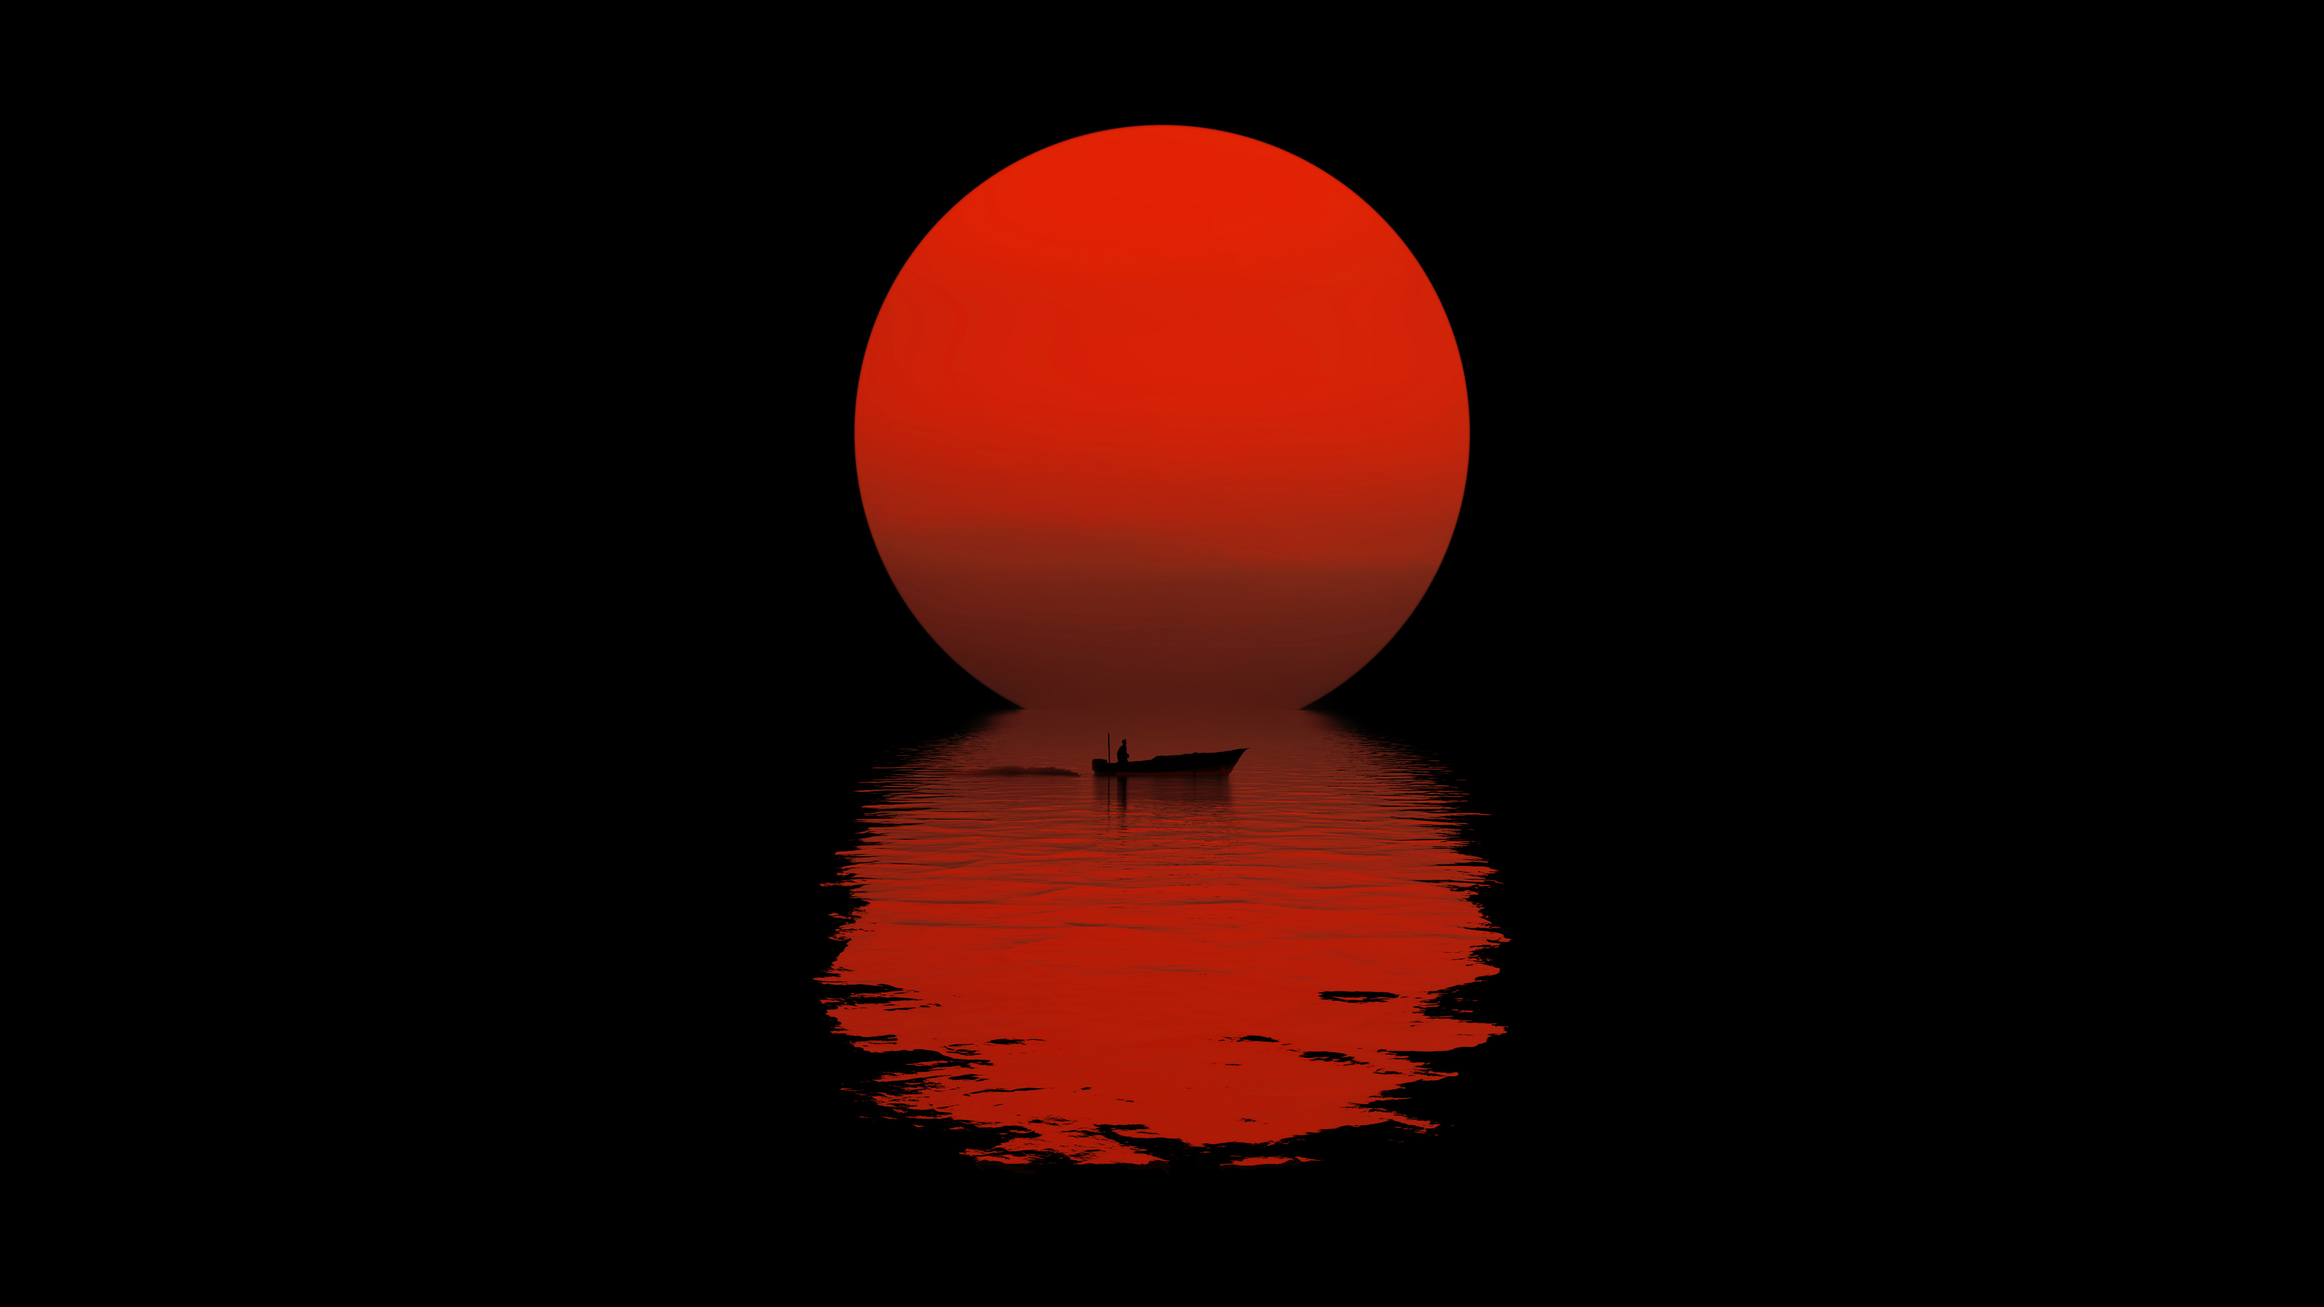
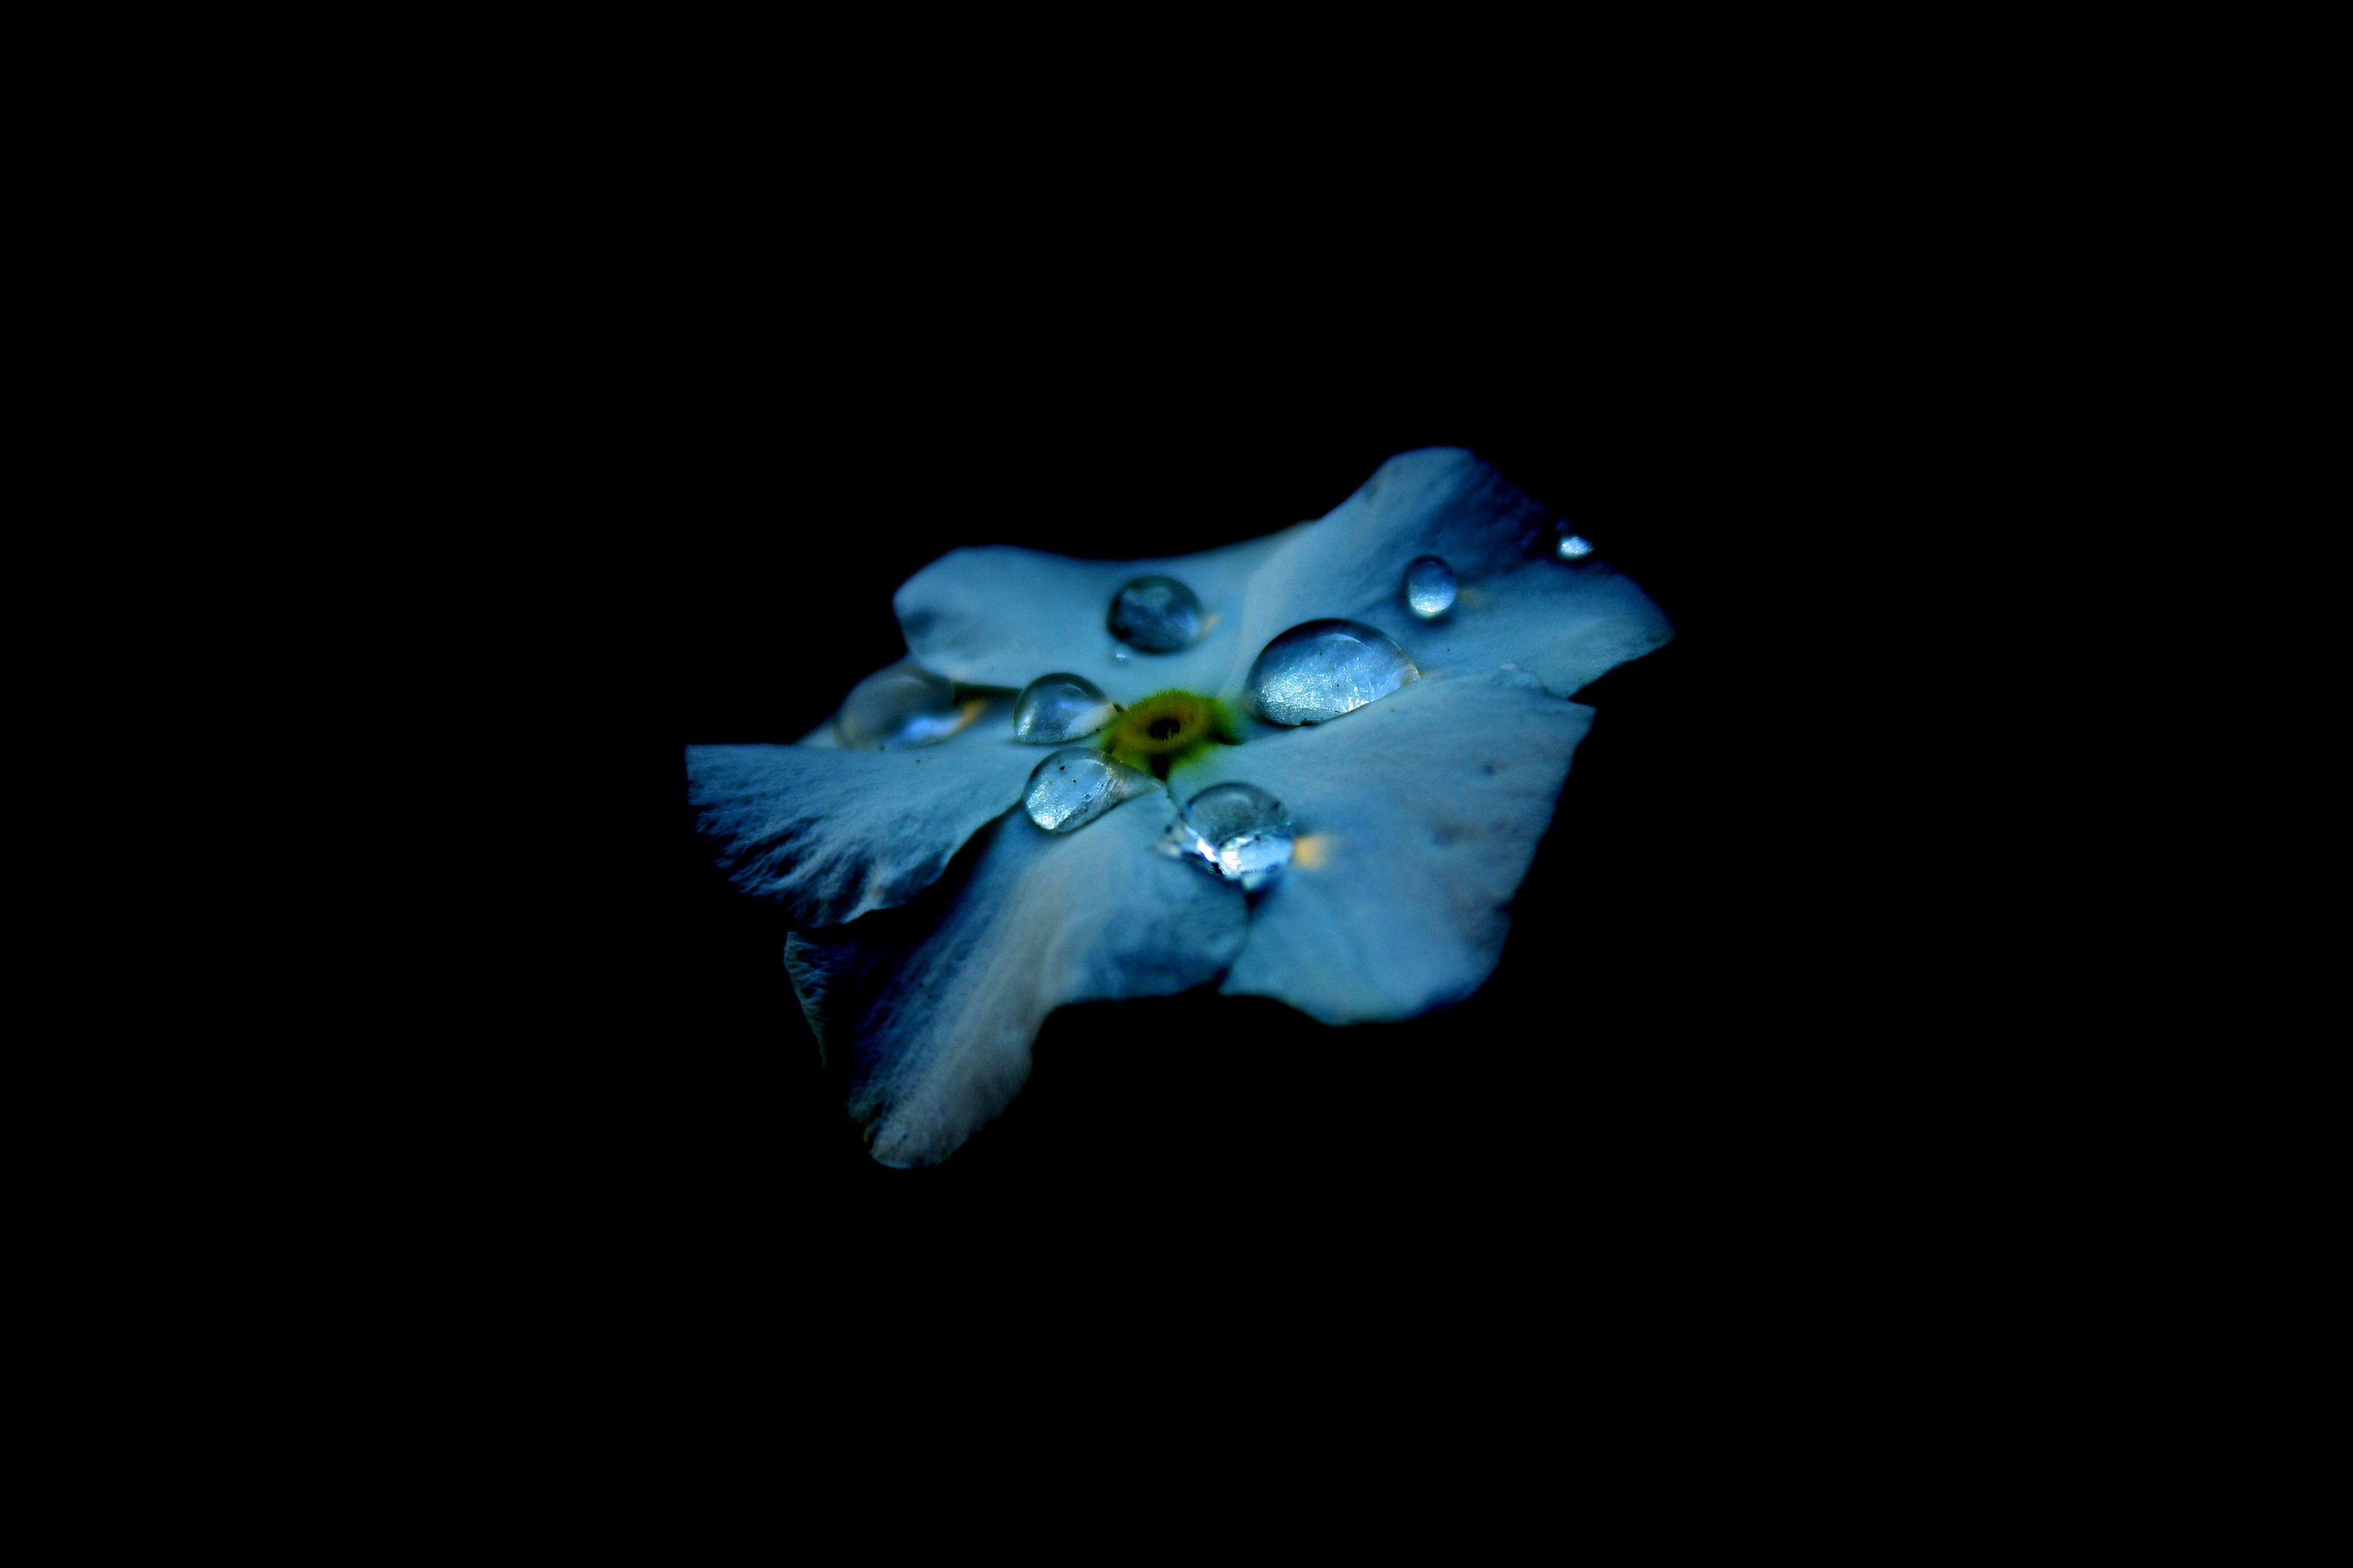
refactor: better theme

Changed region(s): [[0.2812, 0.0931, 0.7188, 0.8995]]

diff --git a/private_dot_config/quickshell/modules/NotificationStack.qml b/private_dot_config/quickshell/modules/NotificationStack.qml
@@ -15,8 +15,12 @@ import "../services"
 // notification gets its own card rather than merging back into the first
 // — matches the order things actually arrived in.
 //
-// No close button — the whole card is one big click target that dismisses
-// its group, simpler than hunting for a specific icon.
+// No close button — the whole card is the target, and which gesture you
+// use says what you meant: fling it off either edge to dismiss it and be
+// done, or click it to be taken to whatever posted it (the exact Zen tab
+// where the app offers a default action — see Notifications.activateGroup)
+// with the card dismissed on the way out. Simpler than hunting for a
+// specific icon, and no gesture leaves the card sitting there unread.
 //
 // While the pad is closed, a card auto-hides itself from view 6s after its
 // newest message (services/Notifications.qml's `groups[].expiresAt`) —
@@ -106,13 +110,26 @@ ColumnLayout {
             required property var modelData
             // Layouts exclude invisible items from sizing, so this both
             // hides the card and closes the gap it would otherwise leave.
-            visible: PadState.shown || root.now < card.modelData.expiresAt
+            // cardMa.pressed keeps a card you're mid-swipe from vanishing
+            // underneath the cursor when its 6s auto-hide happens to land
+            // during the drag — releasing then either dismisses it or
+            // settles it back, and the timeout applies again from there.
+            visible: PadState.shown || cardMa.pressed
+                || root.now < card.modelData.expiresAt
             Layout.preferredWidth: Metrics.notifCardWidth
             implicitHeight: content.implicitHeight + 20
             radius: 14
             color: Colors.alpha(Colors.surface, 0.92)
+            // Neutral, deliberately NOT accent anymore: an accent border
+            // now means "this surface holds Hyprland's focus", which is
+            // the pad's alone (see modules/Pad.qml and shell.qml's
+            // HyprlandFocusGrab). Notifications never take focus — they're
+            // in the grab for clicks only — so they never wear it, apart
+            // from the blink below, where a *flash* of accent reads as
+            // "new content" rather than "focused".
+            readonly property color baseBorder: Colors.alpha(Colors.text, 0.14)
             border.width: 2
-            border.color: Colors.accent
+            border.color: card.baseBorder
 
             // Purely visual offset layered on top of the ColumnLayout's own
             // positioning — animating x/y directly would fight the Layout
@@ -149,16 +166,92 @@ ColumnLayout {
             SequentialAnimation {
                 id: blink
                 loops: 3
-                ColorAnimation { target: card; property: "border.color"; to: Colors.text; duration: 250 }
                 ColorAnimation { target: card; property: "border.color"; to: Colors.accent; duration: 250 }
+                ColorAnimation { target: card; property: "border.color"; to: card.baseBorder; duration: 250 }
             }
 
-            // Whole-card dismiss — no visible siblings intercept mouse
-            // events (plain Text/ColumnLayout, no MouseAreas of their
-            // own), so z doesn't matter here.
+            // Swipe-away, reusing the same Translate the slide-in
+            // animation drives rather than touching x — the card is a
+            // ColumnLayout child, so an animated/assigned x would just be
+            // overwritten by the next layout pass (see slideOffset above).
+            // Either direction dismisses: there's nothing behind a
+            // notification to reveal, so left vs right carries no meaning
+            // worth forcing the user to remember.
+            function flingAway() {
+                card.flingTo = slideOffset.x > 0
+                    ? card.width + 80 : -(card.width + 80)
+                fling.start()
+            }
+            property real flingTo: 0
+
+            ParallelAnimation {
+                id: fling
+                NumberAnimation {
+                    target: slideOffset; property: "x"; to: card.flingTo
+                    duration: 160; easing.type: Easing.OutCubic
+                }
+                NumberAnimation { target: card; property: "opacity"; to: 0; duration: 160 }
+                onFinished: Notifications.dismissGroup(card.modelData.messages)
+            }
+
+            ParallelAnimation {
+                id: settle
+                NumberAnimation {
+                    target: slideOffset; property: "x"; to: 0
+                    duration: 150; easing.type: Easing.OutCubic
+                }
+                NumberAnimation { target: card; property: "opacity"; to: 1; duration: 150 }
+            }
+
+            // Whole-card gesture surface — no visible siblings intercept
+            // mouse events (plain Text/ColumnLayout, no MouseAreas of
+            // their own), so z doesn't matter here.
+            //
+            // Drag is tracked by hand instead of via `drag.target`: that
+            // needs an Item to move, and the only thing safe to move here
+            // is the Translate, which isn't one. `dragging` latches past a
+            // small threshold so a click with a shaky hand still counts as
+            // a click, and — since onClicked fires after onReleased with
+            // the flag still set — is also what keeps a completed swipe
+            // from being treated as a click and jumping to the app.
             MouseArea {
+                id: cardMa
                 anchors.fill: parent
-                onClicked: Notifications.dismissGroup(card.modelData.messages)
+                property real pressX: 0
+                property bool dragging: false
+
+                onPressed: mouse => {
+                    settle.stop()
+                    cardMa.pressX = mouse.x
+                    cardMa.dragging = false
+                }
+                onPositionChanged: mouse => {
+                    const dx = mouse.x - cardMa.pressX
+                    if (!cardMa.dragging && Math.abs(dx) > 8)
+                        cardMa.dragging = true
+                    if (!cardMa.dragging)
+                        return
+                    slideOffset.x = dx
+                    // Fades toward, never to, invisible — the card has to
+                    // stay grabbable all the way to the release point.
+                    card.opacity = Math.max(0.2, 1 - Math.abs(dx) / card.width)
+                }
+                onReleased: {
+                    if (!cardMa.dragging)
+                        return
+                    if (Math.abs(slideOffset.x) > card.width * 0.3)
+                        card.flingAway()
+                    else
+                        settle.start()
+                }
+                onClicked: {
+                    if (cardMa.dragging)
+                        return
+                    Notifications.activateGroup(card.modelData.messages)
+                    // Jumping to another window means the pad is in the
+                    // way; harmless no-op when it was never open.
+                    PadState.close()
+                }
             }
 
             ColumnLayout {

diff --git a/private_dot_config/quickshell/services/Notifications.qml b/private_dot_config/quickshell/services/Notifications.qml
@@ -1,6 +1,7 @@
 pragma Singleton
 import QtQuick
 import Quickshell
+import Quickshell.Hyprland
 import Quickshell.Services.Notifications
 
 // Native replacement for dunst. server registers as the desktop notification
@@ -114,6 +115,69 @@ QtObject {
                 root.safeDismiss(entry.notification)
         const ids = new Set(messages.map(m => m.id))
         root.history = root.history.filter(row => !ids.has(row.id))
+    }
+
+    // Class/desktop-entry names never agree across the two sides: Hyprland
+    // reports "app.zen_browser.zen" while the notification carries
+    // "Zen Browser". Stripping everything but letters and digits makes
+    // those "appzenbrowserzen" and "zenbrowser", which a containment test
+    // then matches — punctuation-insensitive without needing a per-app
+    // table. The >= 3 guard keeps a stub of a name from matching half the
+    // desktop.
+    function normalizeId(s) {
+        return (s || "").toLowerCase().replace(/[^a-z0-9]/g, "")
+    }
+
+    function focusApp(entry) {
+        if (!entry)
+            return
+        const wanted = [entry.groupKey, entry.appName]
+            .map(root.normalizeId)
+            .filter(s => s.length >= 3)
+        if (wanted.length === 0)
+            return
+        const match = Hyprland.toplevels.values.find(t => {
+            const cls = root.normalizeId(t.lastIpcObject && t.lastIpcObject.class)
+            return cls.length >= 3 && wanted.some(w => cls.includes(w) || w.includes(cls))
+        })
+        if (match)
+            Hyprland.dispatch("focuswindow address:" + match.address)
+    }
+
+    // Clicking a card means "take me to whatever posted this", not just
+    // "make it go away". Two steps, because neither one alone is enough:
+    //
+    // - The freedesktop "default" action is the only thing that can land
+    //   on the right *context* rather than just the right app — the actual
+    //   Zen tab the web notification came from, the right chat thread. Apps
+    //   that don't offer one simply don't have that ability, so it's
+    //   best-effort; the try/catch is the same already-closed-notification
+    //   guard safeDismiss() needs (the object is gone once the server
+    //   expired it, and reading .actions off it throws).
+    // - Raising the window is still done afterwards regardless: under
+    //   Wayland an app can't reliably focus itself without an activation
+    //   token and most don't try, so invoking the default action commonly
+    //   switches the tab without ever bringing the window forward.
+    //
+    // Only the newest message in the group carries the action worth
+    // following — that's the one that just fired and the one the click was
+    // aimed at (groups are built newest-first, see `groups` above).
+    function activateGroup(messages) {
+        const newest = messages[0]
+        if (newest && newest.notification) {
+            try {
+                for (const action of newest.notification.actions) {
+                    if (action.identifier === "default") {
+                        action.invoke()
+                        break
+                    }
+                }
+            } catch (e) {
+                // already closed — no actions left to invoke
+            }
+        }
+        root.focusApp(newest)
+        root.dismissGroup(messages)
     }
 
     function dismissAll() {

diff --git a/private_dot_config/quickshell/shell.qml b/private_dot_config/quickshell/shell.qml
@@ -1,6 +1,7 @@
 //@ pragma UseQApplication
 import QtQuick
 import Quickshell
+import Quickshell.Hyprland
 import Quickshell.Io
 import Quickshell.Wayland
 import "./modules"
@@ -138,6 +139,36 @@ ShellRoot {
         NotificationStack {
             id: notifContent
         }
+    }
+
+    // Hyprland-side focus for the pad. WlrKeyboardFocus only tells the
+    // compositor that this layer accepts keys — Hyprland still counts the
+    // last real window as the focused one, so opening the pad left the
+    // window underneath fully active (its border, its idea of "the current
+    // window") while the pad typed over it. hyprland_focus_grab_v1 is the
+    // protocol built for exactly this: while the grab holds, Hyprland
+    // treats the grabbed surfaces as what's focused, and the window
+    // underneath drops to its inactive treatment.
+    //
+    // notifWin joins the grab, but only while it's actually mapped — NOT
+    // to focus it (it stays focusable: false, never takes keyboard focus,
+    // and no longer wears the focused-card border either, see
+    // modules/NotificationStack.qml) but so a click on a notification
+    // reaches the card instead of being eaten as "clicked outside the
+    // grab". That's the same failure mode Exclusive keyboard focus caused
+    // above; naming the surface here is the supported way out of it.
+    //
+    // Deliberately no onCleared -> PadState.close(): padWin and
+    // padCornerCatcher already cover every pixel that isn't notifWin and
+    // close the pad themselves, and the `windows` list below re-commits
+    // whenever the notification stack empties or fills — a cleared handler
+    // would read that ordinary re-grab as "user clicked away" and close
+    // the pad the moment a notification arrived.
+    HyprlandFocusGrab {
+        active: PadState.shown
+        windows: Notifications.groups.length > 0
+            ? [padWin, padCornerCatcher, notifWin]
+            : [padWin, padCornerCatcher]
     }
 
     // OSD — transient toast for volume/brightness changes made outside

diff --git a/private_dot_config/quickshell/modules/Pad.qml b/private_dot_config/quickshell/modules/Pad.qml
@@ -73,8 +73,11 @@ Item {
         height: inner.implicitHeight + Metrics.padPaddingTop + Metrics.padPadding
         radius: Metrics.padRadius
         color: Colors.alpha(Colors.surface, 0.9)
-        // Matches modules/NotificationStack.qml's card border, for a
-        // consistent look across every floating surface this shell shows.
+        // Accent border = "this surface has the compositor's focus", which
+        // the pad genuinely does now (shell.qml holds a HyprlandFocusGrab
+        // for as long as it's open). It's the only surface that wears it —
+        // modules/NotificationStack.qml's cards used to match this for
+        // looks alone and have gone neutral so the cue stays meaningful.
         border.width: 2
         border.color: Colors.accent
 
